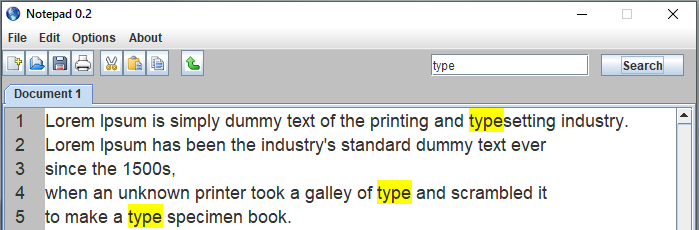
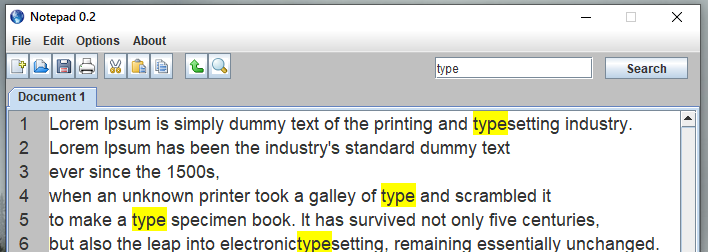
Add: - word counter;

diff --git a/src/main/java/notepad/windows/MainWindow.java b/src/main/java/notepad/windows/MainWindow.java
@@ -221,6 +221,7 @@ public class MainWindow extends JFrame {
             cutButton = new JButton(new ImageIcon(ImageIO.read(new FileInputStream("src/main/res/cut.png"))));
             undoButton = new JButton(new ImageIcon(ImageIO.read(new FileInputStream("src/main/res/undo.png"))));
             printButton = new JButton(new ImageIcon(ImageIO.read(new FileInputStream("src/main/res/print.png"))));
+            functionButton1 = new JButton(new ImageIcon(ImageIO.read(new FileInputStream("src/main/res/find.png"))));
         } catch (IOException e) {
             logger.warning("Image was not found.");
         }
@@ -229,13 +230,10 @@ public class MainWindow extends JFrame {
         statusPanel.setLayout(statusPanelLayout);
         statusPanelLayout.setHorizontalGroup(
                 statusPanelLayout.createParallelGroup(GroupLayout.Alignment.LEADING)
-                        .addGap(0, 0, Short.MAX_VALUE)
-        );
+                        .addGap(0, 0, Short.MAX_VALUE));
         statusPanelLayout.setVerticalGroup(
                 statusPanelLayout.createParallelGroup(GroupLayout.Alignment.LEADING)
-                        .addGap(0, 8, Short.MAX_VALUE)
-        );
-
+                        .addGap(0, 8, Short.MAX_VALUE));
 
         setDefaultCloseOperation(WindowConstants.EXIT_ON_CLOSE);
         searchButton.setText("Search");
@@ -286,15 +284,14 @@ public class MainWindow extends JFrame {
                                 .addComponent(copyButton, GroupLayout.PREFERRED_SIZE, 23, GroupLayout.PREFERRED_SIZE)
                                 .addPreferredGap(LayoutStyle.ComponentPlacement.UNRELATED)
                                 .addComponent(undoButton, GroupLayout.PREFERRED_SIZE, 23, GroupLayout.PREFERRED_SIZE)
-//                                .addComponent(functionButton1, GroupLayout.PREFERRED_SIZE, 23, GroupLayout.PREFERRED_SIZE)
+                                .addComponent(functionButton1, GroupLayout.PREFERRED_SIZE, 23, GroupLayout.PREFERRED_SIZE)
 //                                .addComponent(functionButton2, GroupLayout.PREFERRED_SIZE, 23, GroupLayout.PREFERRED_SIZE)
                                 .addPreferredGap(LayoutStyle.ComponentPlacement.RELATED, 143, Short.MAX_VALUE)
                                 .addComponent(searchField, GroupLayout.PREFERRED_SIZE, 158, GroupLayout.PREFERRED_SIZE)
                                 .addPreferredGap(LayoutStyle.ComponentPlacement.UNRELATED)
                                 .addComponent(searchButton, GroupLayout.PREFERRED_SIZE, 83, GroupLayout.PREFERRED_SIZE)
                                 .addContainerGap())
-                        .addComponent(statusPanel, GroupLayout.DEFAULT_SIZE, GroupLayout.DEFAULT_SIZE, Short.MAX_VALUE)
-        );
+                        .addComponent(statusPanel, GroupLayout.DEFAULT_SIZE, GroupLayout.DEFAULT_SIZE, Short.MAX_VALUE));
         layout.setVerticalGroup(
                 layout.createParallelGroup(GroupLayout.Alignment.LEADING)
                         .addGroup(GroupLayout.Alignment.TRAILING, layout.createSequentialGroup()
@@ -310,7 +307,7 @@ public class MainWindow extends JFrame {
                                                 .addComponent(searchField, GroupLayout.PREFERRED_SIZE, 22, GroupLayout.PREFERRED_SIZE)
                                                 .addComponent(searchButton, GroupLayout.PREFERRED_SIZE, 22, GroupLayout.PREFERRED_SIZE))
                                         .addComponent(undoButton, GroupLayout.Alignment.LEADING, GroupLayout.DEFAULT_SIZE, GroupLayout.DEFAULT_SIZE, Short.MAX_VALUE)
-//                                        .addComponent(functionButton1, GroupLayout.Alignment.LEADING, GroupLayout.DEFAULT_SIZE, GroupLayout.DEFAULT_SIZE, Short.MAX_VALUE)
+                                        .addComponent(functionButton1, GroupLayout.Alignment.LEADING, GroupLayout.DEFAULT_SIZE, GroupLayout.DEFAULT_SIZE, Short.MAX_VALUE)
 //                                        .addComponent(functionButton2, GroupLayout.Alignment.LEADING, GroupLayout.DEFAULT_SIZE, GroupLayout.DEFAULT_SIZE, Short.MAX_VALUE)
                                         )
                                 .addPreferredGap(LayoutStyle.ComponentPlacement.RELATED)
@@ -372,7 +369,16 @@ public class MainWindow extends JFrame {
     }
 
     private void functionButton1ActionPerformed(ActionEvent evt) {
-        // TODO add your handling code here:
+        String words[] = new String[0];
+        String characters = "Characters: 0";
+        if(!textArea.getText().isEmpty()) {
+            characters = "";
+            characters= "Characters: " + textArea.getText().length();
+            words= textArea.getText().split("\\s");
+        }
+        String result = "<html> " + characters + " <br/> Words: "+ words.length + "</html>";
+        JOptionPane.showMessageDialog(null, result,"Counter",
+                JOptionPane.INFORMATION_MESSAGE);
     }
 
     private void functionButton2ActionPerformed(ActionEvent evt) {
